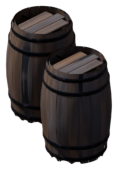
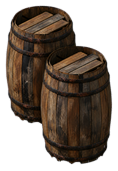
Suelo y barriles pintados por ChatGPT
- Suelo: los trozos suelo_1, suelo_3 y suelo_4 cosidos (el 4 venía un 25 % más
  claro; la ganancia lo iguala).
- procesar_suelo.py: limpia la pelusa morada que ChatGPT deja junto al magenta
  (se veía como un ribete a lo largo del soportal) y toma la silueta exacta de la
  máscara del render; cose los trozos por una costura de coste mínimo en cada
  solape con un fundido corto, en vez de un fundido ancho que dejaba fantasmas.
- Barriles: pintura aplicada tal cual (coincide un 99,7 % con la silueta).

Claude-Session: https://claude.ai/code/session_01V3PygkCYmhoYvk1KoaBkFa

diff --git a/herramientas/procesar_suelo.py b/herramientas/procesar_suelo.py
@@ -7,11 +7,15 @@
 El suelo mide 3200 × 1800 y ChatGPT no pinta tanto de una vez, así que se pide en
 cuatro trozos con solape (docs/arte/suelo/suelo_N_luz.png; ver docs/arte/suelo/README.md).
 
-1. A cada trozo le quita el magenta (donde van las casas) y lo encaja sobre su silueta.
+1. A cada trozo le quita el magenta (donde van las casas), lo encaja sobre su silueta y
+   limpia la pelusa morada que ChatGPT deja junto a las casas.
 2. Iguala el color entre trozos: con lo que coincide en los solapes calcula, por canal,
    una ganancia para cada trozo, para que ninguno quede más claro o más cálido que su
    vecino.
-3. Funde los trozos con una transición suave en mitad de cada solape.
+3. Los cose por una costura de coste mínimo dentro de cada solape: el camino por donde
+   los dos trozos más se parecen (como en el «image quilting» de Efros y Freeman, 2001),
+   con un fundido corto. Un fundido ancho dejaba fantasmas, porque ChatGPT no pinta
+   igual el mismo charco en dos trozos.
 4. Donde no hay pintura (un trozo aún sin pintar, o bajo las casas) queda el render
    (herramientas/datos/suelo_render.png).
 
@@ -25,14 +29,14 @@ from pathlib import Path
 
 import numpy as np
 from PIL import Image, ImageDraw
-from scipy.ndimage import gaussian_filter
+from scipy.ndimage import binary_dilation, distance_transform_edt, gaussian_filter
 
 from procesar_pieza import encajar, transformar
 
 RAIZ = Path(__file__).resolve().parent.parent
 DATOS = RAIZ / "herramientas/datos"
 ENTRADA = RAIZ / "arte/entrada/suelo"
-TRANSICION = 140.0     # px del juego que dura el fundido entre dos trozos
+FUNDIDO = 5.0          # sigma, en px del juego, del fundido a lo largo de la costura
 
 
 def quitar_magenta(img):
@@ -48,13 +52,35 @@ def quitar_magenta(img):
     return Image.fromarray(np.dstack([rgb, alfa * 255]).astype(np.uint8), "RGBA")
 
 
+def limpiar_bordes(pint, mascara):
+    """ChatGPT deja junto al magenta una franja de unos 5 px con pelusa morada que no es
+    magenta puro (quitar_magenta no la borra entera) y en el juego se ve como un ribete
+    a lo largo de las casas. Esos píxeles se rellenan con el color de la pintura limpia
+    más cercana, y la silueta pasa a ser la de la máscara del render (exacta), ensanchada
+    3 px bajo las casas para que no quede ninguna rendija entre suelo y casa."""
+    px = np.asarray(pint).astype(np.float32)
+    rgb, alfa = px[..., :3], px[..., 3] / 255.0
+    r, g, b = rgb[..., 0], rgb[..., 1], rgb[..., 2]
+    # En el barro y la piedra el verde nunca queda por debajo del rojo y el azul a la
+    # vez; en la pelusa morada, sí.
+    sucio = binary_dilation((np.minimum(r, b) - g > 10) | (alfa < 0.98), iterations=1)
+    limpio = mascara & ~sucio
+    zona = binary_dilation(mascara, iterations=3)
+    _, (iy, ix) = distance_transform_edt(~limpio, return_indices=True)
+    relleno = np.where((zona & ~limpio)[..., None], rgb[iy, ix], rgb)
+    salida = np.dstack([relleno, zona * 255.0]).astype(np.uint8)
+    print(f"  bordes: {int((zona & ~limpio).sum())} px rellenados")
+    return Image.fromarray(salida, "RGBA")
+
+
 def cargar_pintura(ruta, mascara):
     pint = quitar_magenta(Image.open(ruta))
     if pint.size != mascara.shape[::-1]:
         pint = pint.resize(mascara.shape[::-1], Image.LANCZOS)
         print(f"  aviso: {ruta.name} venía a otro tamaño; se ajusta")
     puntos, escala, dx, dy = encajar(pint, mascara)
-    return transformar(pint, escala, dx, dy, mascara.shape[::-1]), puntos, (escala, dx, dy)
+    pint = limpiar_bordes(transformar(pint, escala, dx, dy, mascara.shape[::-1]), mascara)
+    return pint, puntos, (escala, dx, dy)
 
 
 def al_lienzo(img, rect, escala, lienzo):
@@ -98,32 +124,81 @@ def ganancias(capas, rects):
     return np.exp(g)
 
 
-def pesos(rects, lienzo, presentes):
-    """Reparto del lienzo entre los trozos pintados: en cada solape manda el trozo en
-    cuyo interior está más hondo el píxel (distancia a sus bordes interiores, los que
-    no son el borde del lienzo), con un fundido suave de unos TRANSICION px. Si falta un
-    trozo, los demás cubren lo suyo."""
+def camino_minimo(coste):
+    """Costura de arriba abajo de coste mínimo (programación dinámica): la columna de
+    cada fila, moviéndose como mucho un píxel a un lado entre fila y fila."""
+    h, w = coste.shape
+    acum = coste.astype(np.float64).copy()
+    for y in range(1, h):
+        prev = acum[y - 1]
+        acum[y] += np.minimum(np.minimum(np.r_[np.inf, prev[:-1]], prev), np.r_[prev[1:], np.inf])
+    camino = np.empty(h, int)
+    camino[-1] = int(np.argmin(acum[-1]))
+    for y in range(h - 2, -1, -1):
+        x = camino[y + 1]
+        lo = max(0, x - 1)
+        camino[y] = lo + int(np.argmin(acum[y, lo:x + 2]))
+    return camino
+
+
+def coser(capas, rects, lienzo):
+    """Une los trozos pintados de uno en uno, empezando por el que más calle pinta. En el
+    solape de cada trozo nuevo con lo ya cosido busca la costura por donde los dos se
+    parecen más (bajo las casas no cuesta nada, porque no se ve) y reparte a cada lado.
+    Devuelve el color y la cobertura de la pintura en el lienzo."""
     w, h = lienzo
-    u = np.arange(w, dtype=np.float32)[None, :]
-    v = np.arange(h, dtype=np.float32)[:, None]
-    hondos = []
-    for r, hay in zip(rects, presentes):
-        x0, y0, x1, y1 = r[0], r[1], r[0] + r[2], r[1] + r[3]
-        dentro = (u >= x0) & (u < x1) & (v >= y0) & (v < y1)
-        d = np.full((h, w), 1e6, np.float32)
-        if x0 > 0.5:
-            d = np.minimum(d, u - x0)
-        if x1 < w - 0.5:
-            d = np.minimum(d, x1 - u)
-        if y0 > 0.5:
-            d = np.minimum(d, v - y0)
-        if y1 < h - 0.5:
-            d = np.minimum(d, y1 - v)
-        d = np.minimum(d, 4000.0)
-        hondos.append(np.where(dentro & hay, d, -1e6).astype(np.float32))
-    maximo = np.max(np.stack(hondos), axis=0)
-    t = TRANSICION / 4
-    return [np.where(hd > -1e5, np.exp(np.clip((hd - maximo) / t, -30, 0)), 0.0).astype(np.float32) for hd in hondos]
+    color = np.zeros((h, w, 3), np.float32)
+    alfa = np.zeros((h, w), np.float32)
+    cubierto = np.zeros((h, w), bool)
+    orden = sorted((i for i, c in enumerate(capas) if c is not None), key=lambda i: -capas[i][..., 3].sum())
+    margen = int(3 * FUNDIDO) + 2
+    for i in orden:
+        capa, r = capas[i], rects[i]
+        # Rectángulo del trozo, sin los 2 px del borde (allí el remuestreo lo deja a medias).
+        x0, y0 = int(np.ceil(r[0])) + (2 if r[0] > 0.5 else 0), int(np.ceil(r[1])) + (2 if r[1] > 0.5 else 0)
+        x1 = int(np.floor(r[0] + r[2])) - (2 if r[0] + r[2] < w - 0.5 else 0)
+        y1 = int(np.floor(r[1] + r[3])) - (2 if r[1] + r[3] < h - 0.5 else 0)
+        suyo = np.zeros((h, w), bool)
+        suyo[y0:y1, x0:x1] = True
+        lado = suyo & ~cubierto
+        solape = suyo & cubierto
+        if solape.any():
+            ys, xs = np.where(solape)
+            oy0, oy1, ox0, ox1 = ys.min(), ys.max() + 1, xs.min(), xs.max() + 1
+            caja = (slice(oy0, oy1), slice(ox0, ox1))
+            a = gaussian_filter(capa[caja][..., :3], (1.5, 1.5, 0))
+            b = gaussian_filter(color[caja], (1.5, 1.5, 0))
+            ambos = (capa[caja][..., 3] > 0.5) & (alfa[caja] > 0.5)
+            coste = np.where(ambos, np.abs(a - b).sum(-1), 0.0) + 1e-3
+            coste[~solape[caja]] = 1e3
+            vertical = (oy1 - oy0) >= (ox1 - ox0)
+            if not vertical:
+                coste = coste.T
+            # Que la costura no pegue a los bordes del solape: el fundido necesita sitio.
+            coste[:, :margen] += 1e3
+            coste[:, -margen:] += 1e3
+            camino = camino_minimo(coste)
+            idx = np.arange(coste.shape[1])[None, :]
+            # Lado del trozo nuevo: hacia donde cae su centro respecto al solape.
+            if vertical:
+                nuevo_despues = r[0] + r[2] / 2 > (ox0 + ox1) / 2
+            else:
+                nuevo_despues = r[1] + r[3] / 2 > (oy0 + oy1) / 2
+            parte = idx > camino[:, None] if nuevo_despues else idx <= camino[:, None]
+            lado[caja] |= (parte if vertical else parte.T) & solape[caja]
+            print(f"  costura {'vertical' if vertical else 'horizontal'} en el solape "
+                  f"x {ox0}-{ox1}, y {oy0}-{oy1}; diferencia media en ella {coste[np.arange(len(camino)), camino].mean():.3f}")
+        # Fundido corto a lo largo de la costura; donde solo pinta uno, manda ese.
+        peso = gaussian_filter(lado.astype(np.float32), FUNDIDO)
+        peso = np.where(suyo & ~cubierto, 1.0, np.where(cubierto & ~suyo, 0.0, peso))
+        peso = np.where(suyo | cubierto, peso, 0.0)
+        wn, wv = peso * capa[..., 3], (1 - peso) * alfa
+        total = wn + wv
+        nuevo = (capa[..., :3] * wn[..., None] + color * wv[..., None]) / np.maximum(total, 1e-6)[..., None]
+        color = np.where((total > 1e-6)[..., None], nuevo, color)
+        alfa = np.where(suyo, np.maximum(alfa, capa[..., 3]), alfa)
+        cubierto |= suyo
+    return color, alfa
 
 
 def main():
@@ -157,23 +232,12 @@ def main():
         capas.append(al_lienzo(img, t["rect"], escala, lienzo))
 
     g = ganancias(capas, rects)
-    reparto = pesos(rects, lienzo, [c is not None for c in capas])
-    suma = np.zeros(lienzo[::-1], np.float32)
-    total = np.zeros(lienzo[::-1], np.float32)
-    color = np.zeros(lienzo[::-1] + (3,), np.float32)
-    for capa, gan, w in zip(capas, g, reparto):
-        if capa is None:
-            continue
-        peso = w * capa[..., 3]
-        color += capa[..., :3] * gan * peso[..., None]
-        suma += peso
-        total += w
-    hay = suma > 1e-6
-    final = render.copy()
-    final[hay] = color[hay] / suma[hay, None]
-    # Donde la pintura no cubre del todo (junto a las casas), fundido con el render.
-    cubre = np.where(total > 1e-6, suma / np.maximum(total, 1e-6), 0)[..., None]
-    final = final * cubre + render * (1 - cubre)
+    for i, capa in enumerate(capas):
+        if capa is not None:
+            capa[..., :3] = np.clip(capa[..., :3] * g[i], 0, 1)
+    color, alfa = coser(capas, rects, lienzo)
+    # Donde no hay pintura (bajo las casas o en un trozo sin pintar) queda el render.
+    final = color * alfa[..., None] + render * (1 - alfa[..., None])
     salida = Image.fromarray((np.clip(final, 0, 1) * 255).astype(np.uint8))
     salida.save(RAIZ / "arte/fondos/calle_mayor_suelo.png", optimize=True)
     print("Ganancias por trozo (R, G, B): " + "; ".join(
